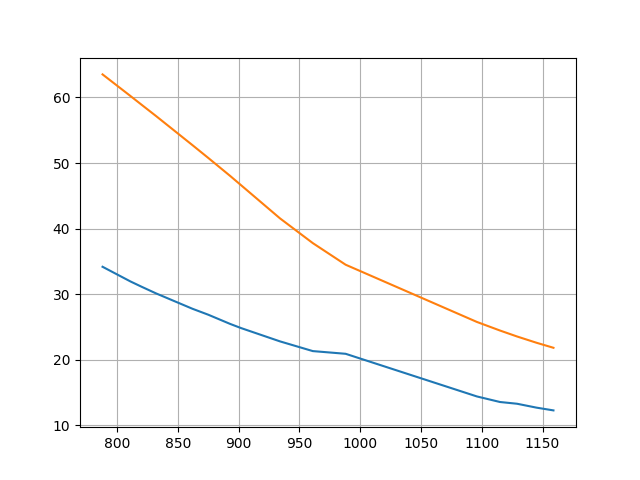
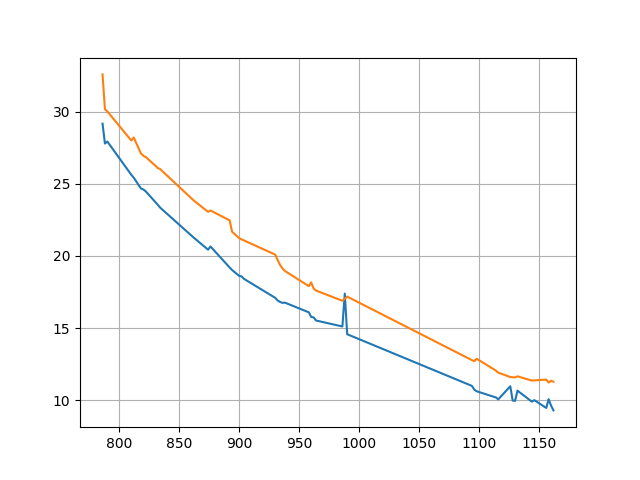
Backup

diff --git a/TCWret.py b/TCWret.py
@@ -98,10 +98,11 @@ fi_best = np.interp(rad_ftir_av, np.array(rad_lbldis), fi_y)
 
 tl_best = tt_best * (1-fi_best)
 ti_best = tt_best * fi_best
-'''
+
 for ii in range(4):
-    ri_ii = rt[ii] / (0.5 + 0.5*fi_best)
-    rl_ii = rt[ii] / (3*fi_best)
+    #ri_ii = rt[ii] / (0.5 + 0.5*fi_best)
+    rl_ii = rt[ii] / (2*fi_best+1)
+    ri_ii = 3*rl_ii
     subprocess.call(["python3", "src/main.py", spectrum, windows, "20", "1", str(resolution_only_od), str(tl_best), str(ti_best), str(rl_ii), str(ri_ii), "0", "0", "0", directory])
     if os.path.exists("{}/{}/{}/lbldis.spec".format(path, spectrum.split("/")[-1], directory)):
         with open("{}/{}/{}/lbldis.spec".format(path, spectrum.split("/")[-1], directory), "r") as f:
@@ -114,13 +115,14 @@ for ii in range(4):
 slope_ftir_av = np.mean(slope_ftir)
 rt_best = np.interp(slope_ftir_av, np.array(slope_lbldis), rt_y)
 #rt_best = np.interp1d(np.array(slope_lbldis), np.array(rt_y), fill_value="extrapolate")
-rl_best = rt_best / (3*fi_best)
-ri_best = rt_best / (0.5+0.5*fi_best)
-'''
+rl_best = rt_best / (2*fi_best+1)
+ri_best = 3*rl_best
+#ri_best = rt_best / (0.5+0.5*fi_best)
+
 tt = tl_best
 fi = ti_best#ti_best
-rl = 10.0#rl_best
-ri = 30.0#ri_best
+rl = rl_best
+ri = ri_best
 print(tt, fi, ri, rl)
 if tt < 0.0:
     tt = 1.0
@@ -130,7 +132,7 @@ if rl < 0.0:
     rl = 10.0
 if ri < 0.0:
     ri = 30.0
-subprocess.call(["python3", "src/main.py", spectrum, windows, "20", "0", str(resolution_retrieval), str(tt), str(fi), str(rl), str(ri), "0", "0", "0", directory])
+subprocess.call(["python3", "src/main.py", spectrum, windows, "15", "0", str(resolution_retrieval), str(tt), str(fi), str(rl), str(ri), "0", "0", "0", directory])
 #exit(-1)
 '''
 Start the retrieval with high resolution

diff --git a/misc/inspect_results.py b/misc/inspect_results.py
@@ -9,8 +9,8 @@ import os
 
 def read_csv(fname):
     with sio.netcdf_file(fname, "r") as f:
-        tt = np.array([f.variables['tt'][:], f.variables['dtt'][:]])
-        fi = np.array([f.variables['fi'][:], f.variables['dfi'][:]])
+        tt = np.array([f.variables['tl'][:], f.variables['dtl'][:]])
+        fi = np.array([f.variables['ti'][:], f.variables['dti'][:]])
         rl = np.array([f.variables['rl'][:], f.variables['drl'][:]])
         ri = np.array([f.variables['ri'][:], f.variables['dri'][:]])
         lwp = np.array([f.variables['lwp'][:], f.variables['dlwp'][:]])

diff --git a/src/aux2.py b/src/aux2.py
@@ -320,7 +320,8 @@ def average(wavenumber, radiance):
         #new_radiance.append(np.mean([dummy_ra[0], dummy_ra[-1]]))
         #new_radiance.append(np.min(np.array(dummy_ra)))
         new_wavenumber.append(np.mean(dummy_wn))
-        
+    new_wavenumber = wavenumber
+    new_radiance = radiance
     return [np.array(new_wavenumber), np.array(new_radiance)]
         
     
